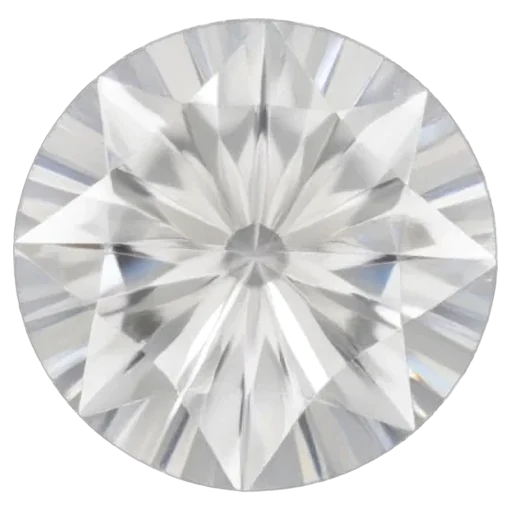
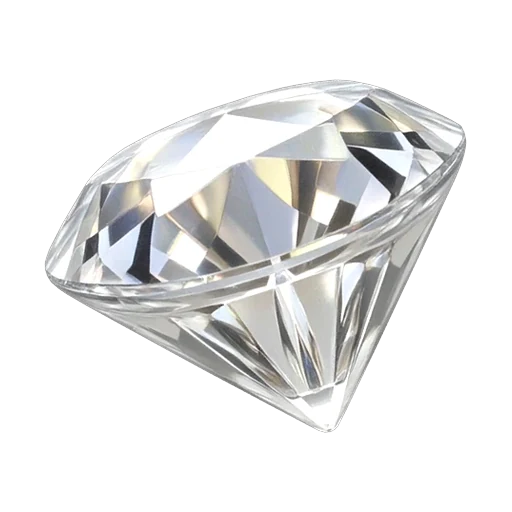
Splendor iteration 3: reserved pile under gold, bounded and stronger turn light, side-view diamond, 81% token gems, equal player-zone margins

diff --git a/client/src/games/splendor/TableView.tsx b/client/src/games/splendor/TableView.tsx
@@ -15,7 +15,7 @@ const H = 1080
 // Central market: big, straight cards so a couch can read them (and flights land exactly).
 // The gem bank lies in a row beneath the market, so the market stays narrow and the open table
 // on either side goes to the players.
-const CARD = 160
+const CARD = 154
 const CARD_H = CARD * CARD_RATIO
 const GAP = 14
 const NOBLE = 112
@@ -29,36 +29,93 @@ export const BANK_CHIP = 78
 const BANK_PITCH = MARKET_W / 6
 /** Top of the bank chips' base; the stacks and their counts rise above it. */
 export const BANK_Y = H - BANK_CHIP - 24
-const SIDE_W = MARKET_X - 16 // open table on each side of the market
 
 /** How big each player's pieces are, by how many players share the table. */
 interface Profile {
   mini: number
   tableauCap: number
   tok: number
-  res: number
   noble: number
   name: number
   disc: number
 }
-const PROFILE_TALL: Profile = { mini: 78, tableauCap: 600, tok: 64, res: 74, noble: 80, name: 30, disc: 62 }
-const PROFILE_CORNER: Profile = { mini: 68, tableauCap: 220, tok: 56, res: 58, noble: 62, name: 25, disc: 52 }
+const PROFILE_TALL: Profile = { mini: 78, tableauCap: 600, tok: 64, noble: 80, name: 30, disc: 62 }
+const PROFILE_CORNER: Profile = { mini: 68, tableauCap: 220, tok: 56, noble: 62, name: 25, disc: 52 }
 /** Gap between a player's colour columns (their token stacks sit directly above them). */
 const COL_GAP = 8
 
-type Zone = { x: number; y: number; w: number; h: number; profile: Profile }
+export type Zone = { x: number; y: number; w: number; h: number; profile: Profile }
 /**
  * Open-table zones in front of each seat: 2 players face each other across the market;
- * 3 players take two corners and one long side; 4 players take the four corners.
+ * 3 players take two corners and one long side; 4 players take the four corners. Each zone
+ * spans the whole strip between the screen edge and the market, so centring a player's pieces
+ * in it leaves equal table on both sides of them.
  */
 export function zonesFor(n: number): Zone[] {
-  const L = 14
-  const R = W - SIDE_W - 14
-  const tall = (x: number): Zone => ({ x, y: 20, w: SIDE_W, h: H - 40, profile: PROFILE_TALL })
-  const corner = (x: number, top: boolean): Zone => ({ x, y: top ? 14 : H / 2 + 6, w: SIDE_W, h: H / 2 - 20, profile: PROFILE_CORNER })
+  const L = 0
+  const R = MARKET_X + MARKET_W
+  const side = MARKET_X
+  const tall = (x: number): Zone => ({ x, y: 20, w: side, h: H - 40, profile: PROFILE_TALL })
+  const corner = (x: number, top: boolean): Zone => ({ x, y: top ? 14 : H / 2 + 6, w: side, h: H / 2 - 20, profile: PROFILE_CORNER })
   if (n <= 2) return [tall(L), tall(R)]
   if (n === 3) return [corner(L, false), corner(L, true), tall(R)]
   return [corner(L, false), corner(L, true), corner(R, true), corner(R, false)]
+}
+
+/** Gap between a player's reserved backs in their pile (fraction of a mini card's height). */
+const RES_STEP = 0.22
+
+/**
+ * Where a seat's pieces go inside its zone: six slots across (five colour columns plus gold,
+ * with the reserved pile under gold), centred horizontally so the table on either side matches,
+ * and the whole stack centred vertically.
+ */
+export function spotLayout(zone: Zone) {
+  const pr = zone.profile
+  const slotsW = pr.mini * 6 + COL_GAP * 5
+  const left = zone.x + (zone.w - slotsW) / 2
+  // Vertical flow: place card → token stacks (counts rise above them) → tableau / reserved pile → nobles.
+  const placeH = pr.disc + 6
+  const tokHead = pr.tok * 0.07 * 6 + pr.tok * TOKEN_COUNT_SCALE * 1.3
+  const contentH = placeH + 16 + tokHead + pr.tok + 12 + pr.tableauCap + 22 + pr.noble
+  const top = zone.y + Math.max(0, (zone.h - contentH) / 2)
+  const tokY = top + placeH + 16 + tokHead
+  const tableauY = tokY + pr.tok + 12
+  const lowY = tableauY + pr.tableauCap + 22
+  return { pr, slotsW, left, top, contentH, tokY, tableauY, lowY, slotX: (i: number) => left + i * (pr.mini + COL_GAP) }
+}
+
+/** A seat's light pool covers about a quarter of the table, centred on where its pieces gather. */
+export function glowRect(zone: Zone) {
+  const { left, top, slotsW } = spotLayout(zone)
+  const h = Math.min(zone.h, H / 2 - 20)
+  return { x: left - 60, y: top - 50, w: slotsW + 120, h: h + 60 }
+}
+
+function hexRgb(hex: string): [number, number, number] {
+  const n = parseInt(hex.slice(1), 16)
+  return [(n >> 16) & 255, (n >> 8) & 255, n & 255]
+}
+function luminance([r, g, b]: [number, number, number]) {
+  const lin = (c: number) => {
+    const v = c / 255
+    return v <= 0.03928 ? v / 12.92 : ((v + 0.055) / 1.055) ** 2.4
+  }
+  return 0.2126 * lin(r) + 0.7152 * lin(g) + 0.0722 * lin(b)
+}
+/** Light the pool adds to the table (screen-blended), so every seat colour reads about equally. */
+const GLOW_TARGET = 0.3
+/**
+ * Seat colours differ a lot in brightness (green and yellow glow; blue, red and purple barely
+ * show on dark wood). Lift dark hues toward white a little, then scale each pool's strength by
+ * its luminance so all of them add roughly the same light.
+ */
+export function glowTone(hex: string) {
+  const rgb = hexRgb(hex)
+  const lift = Math.min(0.3, Math.max(0, (0.45 - luminance(rgb)) * 0.8))
+  const lit = rgb.map((c) => Math.round(c + (255 - c) * lift)) as [number, number, number]
+  const alpha = Math.min(0.95, Math.max(0.35, GLOW_TARGET / luminance(lit)))
+  return { rgb: lit, alpha, added: luminance(lit) * alpha }
 }
 
 function useStageScale() {
@@ -179,7 +236,7 @@ export function TableView({ view, events, seq, onEventsDone, sound }: TableViewP
 
         {/* Each player's light pool sits under their pieces */}
         {view.players.map((p, i) => (
-          <TurnGlow key={`glow-${p.seat}`} zone={zones[i]} hex={seatHex(p.color)} on={!view.finished && glowTurn === p.seat} />
+          <TurnGlow key={`glow-${p.seat}`} rect={glowRect(zones[i])} hex={seatHex(p.color)} on={!view.finished && glowTurn === p.seat} />
         ))}
 
         {/* Nobles */}
@@ -297,16 +354,19 @@ function FinalRoundSeal() {
   )
 }
 
-function TurnGlow({ zone, hex, on }: { zone: Zone; hex: string; on: boolean }) {
+function TurnGlow({ rect, hex, on }: { rect: { x: number; y: number; w: number; h: number }; hex: string; on: boolean }) {
+  const { rgb, alpha } = glowTone(hex)
+  const c = (a: number) => `rgba(${rgb[0]},${rgb[1]},${rgb[2]},${a.toFixed(3)})`
   return (
     <div
       style={{
         position: 'absolute',
-        left: zone.x - 40,
-        top: zone.y - 30,
-        width: zone.w + 80,
-        height: zone.h + 60,
-        background: `radial-gradient(ellipse 60% 55% at 50% 50%, ${hex}55 0%, ${hex}22 45%, rgba(0,0,0,0) 75%)`,
+        left: rect.x,
+        top: rect.y,
+        width: rect.w,
+        height: rect.h,
+        background: `radial-gradient(ellipse 50% 50% at 50% 50%, ${c(alpha)} 0%, ${c(alpha * 0.55)} 40%, ${c(alpha * 0.18)} 70%, rgba(0,0,0,0) 100%)`,
+        mixBlendMode: 'screen',
         opacity: on ? 1 : 0,
         transition: 'opacity 700ms ease',
         pointerEvents: 'none',
@@ -348,7 +408,7 @@ function Loose({
 }
 
 function PlayerSpot({ p, zone, first, pending }: { p: PublicPlayer; zone: Zone; first: boolean; pending: 'discard' | 'noble' | null }) {
-  const pr = zone.profile
+  const { pr, slotsW, left, top, tokY, tableauY, lowY, slotX } = spotLayout(zone)
   const miniH = pr.mini * CARD_RATIO
   const columns = GEMS.map((g) => ({ gem: g, cards: p.cards.filter((id) => CARD_BY_ID[id]?.bonus === g) }))
   const tallest = Math.max(1, ...columns.map((c) => c.cards.length))
@@ -356,24 +416,12 @@ function PlayerSpot({ p, zone, first, pending }: { p: PublicPlayer; zone: Zone; 
   const tableauH = Math.min(pr.tableauCap, miniH + (tallest - 1) * peek)
 
   // Six slots across: five colour columns plus gold. Each colour's token stack sits directly
-  // above that colour's cards; gold (which has no cards) takes the sixth slot.
-  const slotsW = pr.mini * 6 + COL_GAP * 5
-  const left = zone.x + Math.max(0, (zone.w - slotsW) / 2)
-  const slotX = (i: number) => left + i * (pr.mini + COL_GAP)
-
-  // Vertical flow: place card → token stacks (counts rise above them) → tableau → reserved + nobles.
-  const placeH = pr.disc + 6
-  const tokHead = pr.tok * 0.07 * 6 + pr.tok * TOKEN_COUNT_SCALE * 1.3
-  const contentH = placeH + 16 + tokHead + pr.tok + 12 + pr.tableauCap + 22 + pr.res * CARD_RATIO
-  const top = zone.y + Math.max(0, (zone.h - contentH) / 2)
-  const tokY = top + placeH + 16 + tokHead
-  const tableauY = tokY + pr.tok + 12
-  const lowY = tableauY + pr.tableauCap + 22
-  const resStep = pr.res * 0.62
+  // above that colour's cards; gold (which has no cards) takes the sixth slot, and the
+  // reserved pile lies under it.
 
   return (
     <>
-      <PlaceCard p={p} x={left} y={top} pr={pr} first={first} pending={pending} />
+      <PlaceCard p={p} x={left} y={top} pr={pr} first={first} pending={pending} maxW={slotsW} />
 
       {/* Token stacks, each over its own colour column (an empty colour leaves bare table but keeps its spot for flights) */}
       {TOKENS.map((t, i) => (
@@ -417,20 +465,20 @@ function PlayerSpot({ p, zone, first, pending }: { p: PublicPlayer; zone: Zone; 
         )
       })}
 
-      {/* Reserved cards: always face-down, fanned a little */}
+      {/* Reserved cards: a small face-down pile in the sixth column, under the gold */}
       {[0, 1, 2].map((i) => (
         <Loose
           key={`res-${i}`}
           anchor={`p${p.seat}-res-${i}`}
           seed={`p${p.seat}-res-${i}`}
-          w={pr.res}
-          h={pr.res * CARD_RATIO}
-          deg={3}
+          w={pr.mini}
+          h={miniH}
+          deg={2.5}
           px={2}
-          tilt={(i - 1) * 5}
-          style={{ left: left + i * resStep, top: lowY }}
+          tilt={(i - 1) * 3}
+          style={{ left: slotX(5), top: tableauY + i * miniH * RES_STEP }}
         >
-          {p.reserved[i] ? <CardBack tier={p.reserved[i].tier} size={pr.res} /> : null}
+          {p.reserved[i] ? <CardBack tier={p.reserved[i].tier} size={pr.mini} /> : null}
         </Loose>
       ))}
 
@@ -444,7 +492,7 @@ function PlayerSpot({ p, zone, first, pending }: { p: PublicPlayer; zone: Zone; 
           h={pr.noble}
           deg={4}
           px={3}
-          style={{ left: left + pr.res + 2 * resStep + 28 + i * (pr.noble * 0.7), top: lowY + 4 }}
+          style={{ left: left + i * (pr.noble * 0.8), top: lowY }}
         >
           <NobleTile id={id} size={pr.noble} />
         </Loose>
@@ -454,7 +502,24 @@ function PlayerSpot({ p, zone, first, pending }: { p: PublicPlayer; zone: Zone; 
 }
 
 /** A parchment tent card with the player's name, beside a wooden score disc. */
-function PlaceCard({ p, x, y, pr, first, pending }: { p: PublicPlayer; x: number; y: number; pr: Profile; first: boolean; pending: 'discard' | 'noble' | null }) {
+function PlaceCard({
+  p,
+  x,
+  y,
+  pr,
+  first,
+  pending,
+  maxW,
+}: {
+  p: PublicPlayer
+  x: number
+  y: number
+  pr: Profile
+  first: boolean
+  pending: 'discard' | 'noble' | null
+  /** The width of the seat's pieces; the place card never reaches past them toward the market. */
+  maxW: number
+}) {
   const hex = seatHex(p.color)
   const j = jitter(`place-${p.seat}`, 2, 2)
   return (
@@ -486,7 +551,7 @@ function PlaceCard({ p, x, y, pr, first, pending }: { p: PublicPlayer; x: number
           color: '#3b2412',
           fontSize: pr.name,
           lineHeight: 1.1,
-          maxWidth: SIDE_W - pr.disc - 70,
+          maxWidth: maxW - pr.disc - pr.disc * 0.55 - 30,
           whiteSpace: 'nowrap',
           overflow: 'hidden',
           textOverflow: 'ellipsis',

diff --git a/client/src/games/splendor/layout.test.ts b/client/src/games/splendor/layout.test.ts
@@ -1,6 +1,6 @@
 import { describe, expect, it } from 'vitest'
-import { BANK_CHIP, BANK_Y, BLOCK_W, MARKET_BOTTOM, MARKET_X, planAnimation, zonesFor } from './TableView'
-import { TOKEN_COUNT_SCALE } from './components'
+import { BANK_CHIP, BANK_Y, BLOCK_W, MARKET_BOTTOM, MARKET_X, glowRect, glowTone, planAnimation, spotLayout, zonesFor } from './TableView'
+import { SEAT_HEX, TOKEN_COUNT_SCALE } from './components'
 import type { SplendorTableView } from '@games/splendor/engine'
 
 describe('tabletop layout', () => {
@@ -23,6 +23,54 @@ describe('tabletop layout', () => {
         expect(overlapsMarket).toBe(false)
       }
     }
+  })
+})
+
+describe('player zones', () => {
+  it('leaves the same table between a seat and the screen edge as between it and the market (±4px)', () => {
+    for (const n of [2, 3, 4]) {
+      for (const z of zonesFor(n)) {
+        const { left, slotsW } = spotLayout(z)
+        const right = left + slotsW
+        const onLeft = z.x < MARKET_X
+        const toEdge = onLeft ? left : 1920 - right
+        const toMarket = onLeft ? MARKET_X - right : left - (MARKET_X + BLOCK_W)
+        expect(toEdge).toBeGreaterThan(8)
+        expect(Math.abs(toEdge - toMarket)).toBeLessThanOrEqual(4)
+      }
+    }
+  })
+
+  it("keeps each seat's pieces (tokens, tableau, reserved pile, nobles) inside its zone", () => {
+    for (const n of [2, 3, 4]) {
+      for (const z of zonesFor(n)) {
+        const { top, contentH, lowY, pr } = spotLayout(z)
+        expect(top).toBeGreaterThanOrEqual(z.y)
+        expect(top + contentH).toBeLessThanOrEqual(z.y + z.h + 1)
+        expect(lowY + pr.noble).toBeLessThanOrEqual(z.y + z.h + 1)
+        // the reserved pile (three backs, stepped) fits in the tableau's vertical budget
+        const miniH = pr.mini * (88 / 63)
+        expect(miniH + 2 * miniH * 0.22).toBeLessThanOrEqual(pr.tableauCap)
+      }
+    }
+  })
+
+  it("bounds each seat's light pool to about a quarter of the table, even for the lone side seat", () => {
+    for (const n of [2, 3, 4]) {
+      for (const z of zonesFor(n)) {
+        const g = glowRect(z)
+        expect(g.h).toBeLessThanOrEqual(1080 / 2 + 60)
+        const { left, slotsW } = spotLayout(z)
+        expect(g.x).toBeLessThan(left)
+        expect(g.x + g.w).toBeGreaterThan(left + slotsW)
+      }
+    }
+  })
+
+  it('makes every seat colour add about the same light to the table', () => {
+    const added = Object.values(SEAT_HEX).map((hex) => glowTone(hex).added)
+    const mean = added.reduce((a, b) => a + b, 0) / added.length
+    for (const a of added) expect(Math.abs(a - mean) / mean).toBeLessThan(0.25)
   })
 })
 

diff --git a/client/src/games/splendor/components.tsx b/client/src/games/splendor/components.tsx
@@ -273,8 +273,8 @@ export function Token({ gem, size, style }: { gem: Token; size: number; style?: 
         draggable={false}
         style={{ position: 'absolute', inset: 0, width: '100%', height: '100%', objectFit: 'cover', opacity: 0.1, filter: 'blur(2px)' }}
       />
-      {/* inner disc is 8.9em across; gem images are normalised to a 95% circle, so 8.4em ≈ 90% fill */}
-      <GemImg gem={gem} size="8.4em" style={{ position: 'relative' }} />
+      {/* inner disc is 8.9em across; gem images are normalised to a 95% circle, so 7.56em ≈ 81% fill */}
+      <GemImg gem={gem} size="7.56em" style={{ position: 'relative' }} />
     </div>
   )
 }

diff --git a/tools/splendor-art/brighten_gems.py b/tools/splendor-art/brighten_gems.py
@@ -25,7 +25,7 @@ RADIUS = 0.475  # farthest opaque pixel from centre, as a fraction of the canvas
 
 # brightness, colour (saturation), contrast, gamma (<1 lifts mid-tones)
 ADJUST = {
-    "white": (1.00, 1.00, 1.06, 1.00),
+    "white": (1.05, 1.00, 1.16, 0.95),
     "blue": (1.50, 1.12, 1.04, 0.75),
     "green": (1.32, 1.15, 1.08, 0.85),
     "red": (1.45, 1.15, 1.08, 0.80),

diff --git a/client/src/games/splendor/assets/README.md b/client/src/games/splendor/assets/README.md
@@ -33,7 +33,7 @@ API-format workflows: `tools/splendor-art/workflow-flux-api.json` and `workflow-
 ## Prompts and seeds (`tools/splendor-art/jobs.json`)
 | Asset | Model | Size | Seed | Prompt |
 |---|---|---|---|---|
-| `gem-white` | flux | 768×768 | 100 | a brilliant round cut clear white diamond, sparkling facets, crown facing viewer, single gemstone game token art, realistic glossy rendering, three-quarter top view, centered, fills two thirds of the frame, soft studio light from top-left, crisp specular highlights, isolated on a flat uniform medium gray background, no shadow, no text |
+| `gem-white` | flux | 768×768 | 723 | classic diamond gemstone icon, brilliant cut diamond viewed from the side and slightly above, crown facets on top and long pointed pavilion below like an inverted cone, tilted to the right, sparkling clear white diamond with dark black facet reflections and bright glints, game board token gem art, hyperrealistic, centered, fills two thirds of the frame, isolated on a flat uniform medium gray background, no shadow, no text |
 | `gem-blue` | flux | 768×768 | 101 | a deep royal blue sapphire smooth oval cabochon, polished dome, star-like inner glow, single gemstone game token art, realistic glossy rendering, three-quarter top view, centered, fills two thirds of the frame, soft studio light from top-left, crisp specular highlights, isolated on a flat uniform medium gray background, no shadow, no text |
 | `gem-green` | flux | 768×768 | 151 | a deep green emerald gemstone with a rectangular emerald step cut, wider than tall, clipped corners, vivid saturated green, single gemstone game token art, realistic glossy rendering, three-quarter top view, centered, fills two thirds of the frame, soft studio light from top-left, crisp specular highlights, isolated on a flat uniform medium gray background, no shadow, no text |
 | `gem-red` | flux | 768×768 | 103 | a deep crimson red ruby with cushion cut rounded square shape, faceted, vivid saturated red, single gemstone game token art, realistic glossy rendering, three-quarter top view, centered, fills two thirds of the frame, soft studio light from top-left, crisp specular highlights, isolated on a flat uniform medium gray background, no shadow, no text |
@@ -70,3 +70,11 @@ API-format workflows: `tools/splendor-art/workflow-flux-api.json` and `workflow-
 | `table` | flux | 1024×1024 | 403 | a flat top-down seamless texture of a dark polished walnut wood tabletop, rich brown grain, evenly lit, full frame, no objects, no text |
 
 Retry note: `comfy_gen.py` re-runs a job with `seed + 1000×attempt` when the output is nearly flat. Low-contrast assets like the parchment can trip this check, so the seed in the table is the starting seed.
+
+## Diamond rework (iteration 3)
+The white gem was regenerated as a classic brilliant cut seen from the side, like the real token: Flux, seed 723, 24 steps, prompt in the table above. It was post-processed by hand instead of with `process_assets.py`:
+- rembg (`isnet-general-use`) found the stone, but glass-on-grey made its matte patchy.
+- So the alpha is the **convex hull** of the rembg mask, drawn at 4× and downsampled, which gives a clean, solid silhouette.
+- Then the stone was rotated 18° counter-clockwise so the pavilion points to the lower right, and fitted to 448 px.
+
+The result is `tools/splendor-art/originals/gems/white.webp`. `brighten_gems.py` then adds contrast for darker facets: `white: (1.05, 1.00, 1.16, 0.95)`.
